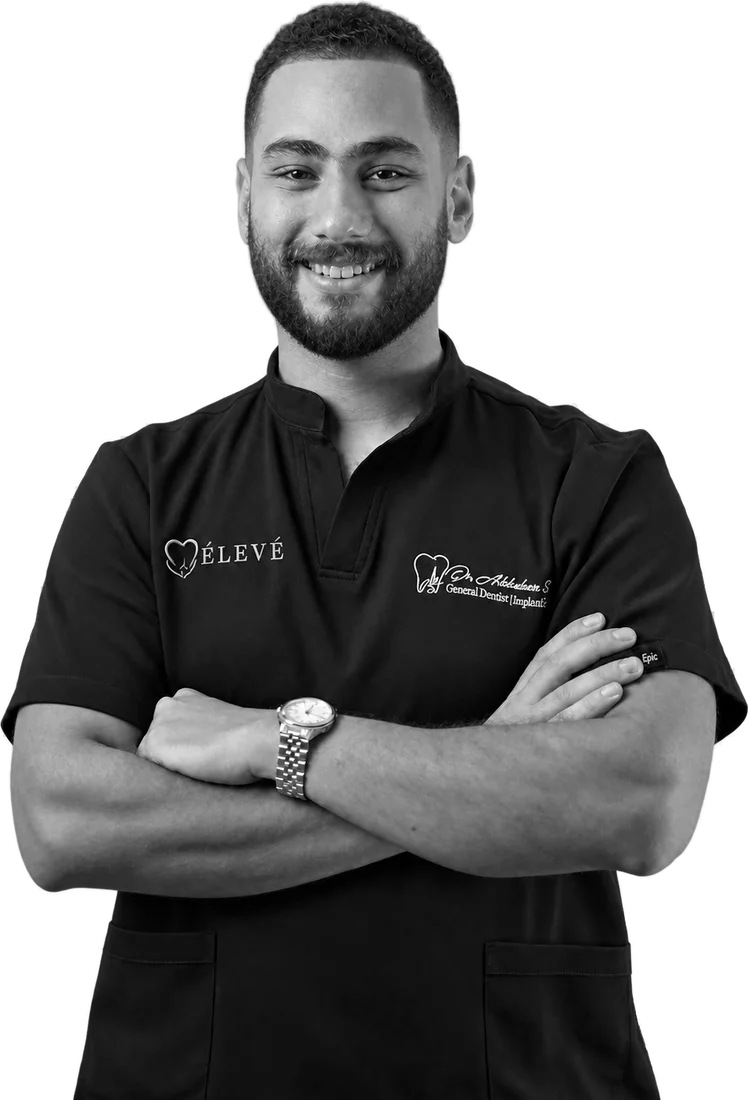
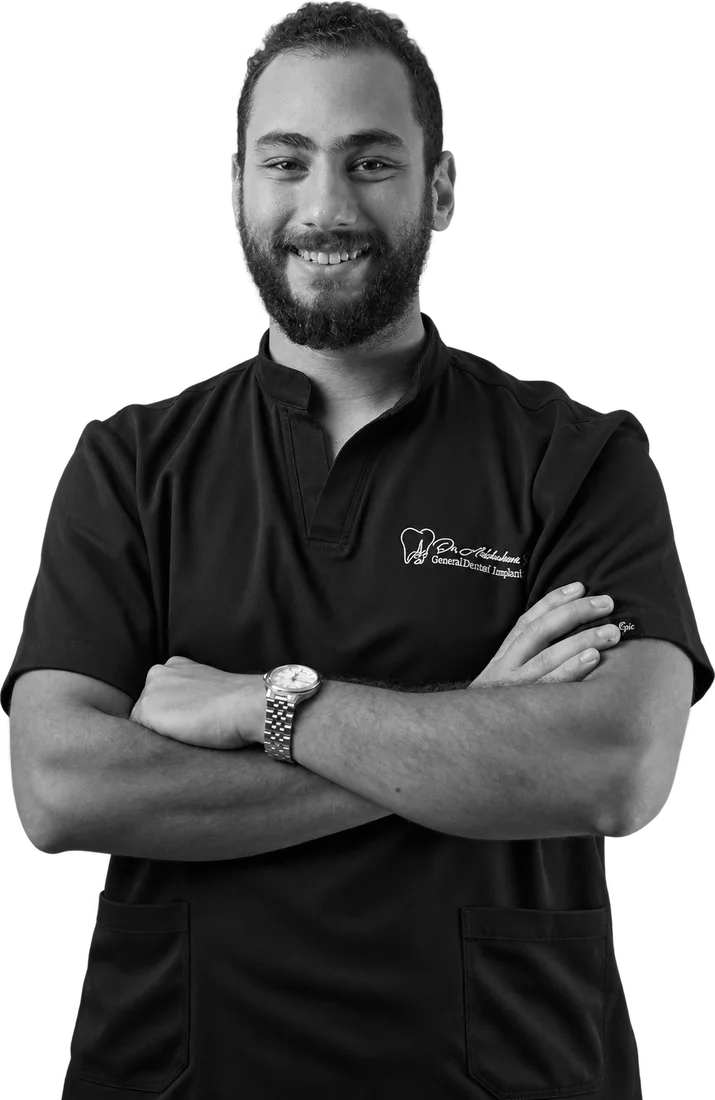
Add files via upload

diff --git a/index.html b/index.html
@@ -293,7 +293,7 @@ html[dir="rtl"] .stage.in .dname span{animation-name:dWipeR}
 .thumbs{list-style:none;margin:clamp(28px,4vw,44px) 0 0;padding:0;display:flex;gap:14px;justify-content:center;flex-wrap:wrap}
 .thumbs button{all:unset;cursor:pointer;display:grid;justify-items:center;gap:8px;font-size:.85rem;color:rgba(251,250,247,.6);transition:color .25s}
 .thumbs .face{position:relative;width:66px;height:66px;border-radius:50%;padding:3px;border:1.5px solid rgba(251,250,247,.2);transition:border-color .3s}
-.thumbs .face i{display:block;width:100%;height:100%;border-radius:50%;background:#34312d no-repeat 50% 3%/240% auto}
+.thumbs .face i{display:block;width:100%;height:100%;border-radius:50%;background:#34312d no-repeat center/cover}
 .thumbs button[aria-current="true"]{color:var(--paper)}
 .thumbs button[aria-current="true"] .face{border-color:var(--gold)}
 .thumbs button:hover .face{border-color:var(--gold)}
@@ -1057,8 +1057,8 @@ const DOCTORS = [
   en:{l1:"Dr. Hesham", l2:"Mostafa", role:"Master’s Degree in Prosthodontics · Fellow of the Royal College in England", bio:"Focuses on aesthetic restorative dentistry, veneer treatments and smile design, combining dental function with refined aesthetic results."},
   ar:{l1:"د. هشام", l2:"مصطفى", role:"ماجستير التركيبات · زميل الكلية الملكية بإنجلترا", bio:"يركّز على طب الأسنان التجميلي والترميمي وعلاجات الفينير وتصميم الابتسامة، بالجمع بين وظيفة الأسنان ونتيجة جمالية راقية."}},
  {img:"moaz", script:"Moaz",
-  en:{l1:"Dr. Moaz", l2:"Elsbagh", role:"General Practitioner", bio:""},
-  ar:{l1:"د. معاذ", l2:"الصباغ", role:"طبيب ممارس عام", bio:""}},
+  en:{l1:"Dr. Moaz", l2:"Elsbagh", role:"General Dentist", bio:"Provides complete oral and dental care, from regular check-ups, cleaning and treating cavities to fillings and cosmetic dentistry, using the latest techniques with precision for a healthy, natural smile."},
+  ar:{l1:"د. معاذ", l2:"الصباغ", role:"طبيب أسنان عام", bio:"يقدّم رعاية متكاملة لصحة الفم والأسنان، تشمل الفحوصات الدورية والتنظيف وعلاج التسوس والحشوات، إلى جانب إجراءات طب الأسنان التجميلي، مع التركيز على أحدث الأساليب العلمية والدقة في تحقيق ابتسامة صحية وطبيعية."}},
  {img:"gamal", script:"Mohamed",
   en:{l1:"Dr. Mohamed", l2:"Gamal", role:"General Dentist", bio:"Provides everyday dental care, from check-ups and cleaning to fillings, to keep your teeth healthy."},
   ar:{l1:"د. محمد", l2:"جمال", role:"طبيب أسنان عام", bio:"يقدّم رعاية الأسنان اليومية، من الكشف والتنظيف للحشوات، علشان أسنانك تفضل سليمة."}},
@@ -1073,7 +1073,7 @@ const DOCTORS = [
   ar:{l1:"د. صفية", l2:"محمد", role:"أخصائية جراحات التجميل", bio:"تهتم بتقديم الحلول التجميلية التي تجمع بين الدقة الطبية والتناسق الجمالي، مع التركيز على نتائج طبيعية تتناسب مع ملامح كل حالة."}}
 ];
 const DOC_SECONDS = 7;
-const IMG_V = "20261122b";   // bump this whenever a doctor photo changes, so phones load the new one
+const IMG_V = "20261122d";   // bump this whenever a doctor photo changes, so phones load the new one
 
 let lang = "en", current = null;
 const $ = s => document.querySelector(s), $$ = s => [...document.querySelectorAll(s)];
@@ -1093,7 +1093,7 @@ function render(){
   }
   $$(".wa-link").forEach(a=>a.href=wa(t("msgGen")));
   renderOffer(); fillForm();
-  $("#thumbs").innerHTML = DOCTORS.map((d,i)=>`<li><button type="button" data-doc="${i}" aria-label="${d[lang].l1} ${d[lang].l2}"><span class="face"><i style="background-image:url(drc-${d.img}.webp?v=${IMG_V})"></i></span>${d[lang].l1.replace(/^(Dr\.|د\.)\s*/,"") || d[lang].l2}</button></li>`).join("");
+  $("#thumbs").innerHTML = DOCTORS.map((d,i)=>`<li><button type="button" data-doc="${i}" aria-label="${d[lang].l1} ${d[lang].l2}"><span class="face"><i style="background-image:url(face-${d.img}.webp?v=${IMG_V})"></i></span>${d[lang].l1.replace(/^(Dr\.|د\.)\s*/,"") || d[lang].l2}</button></li>`).join("");
   showDoc(docI, false);
   if (current) fill(current);
 }
